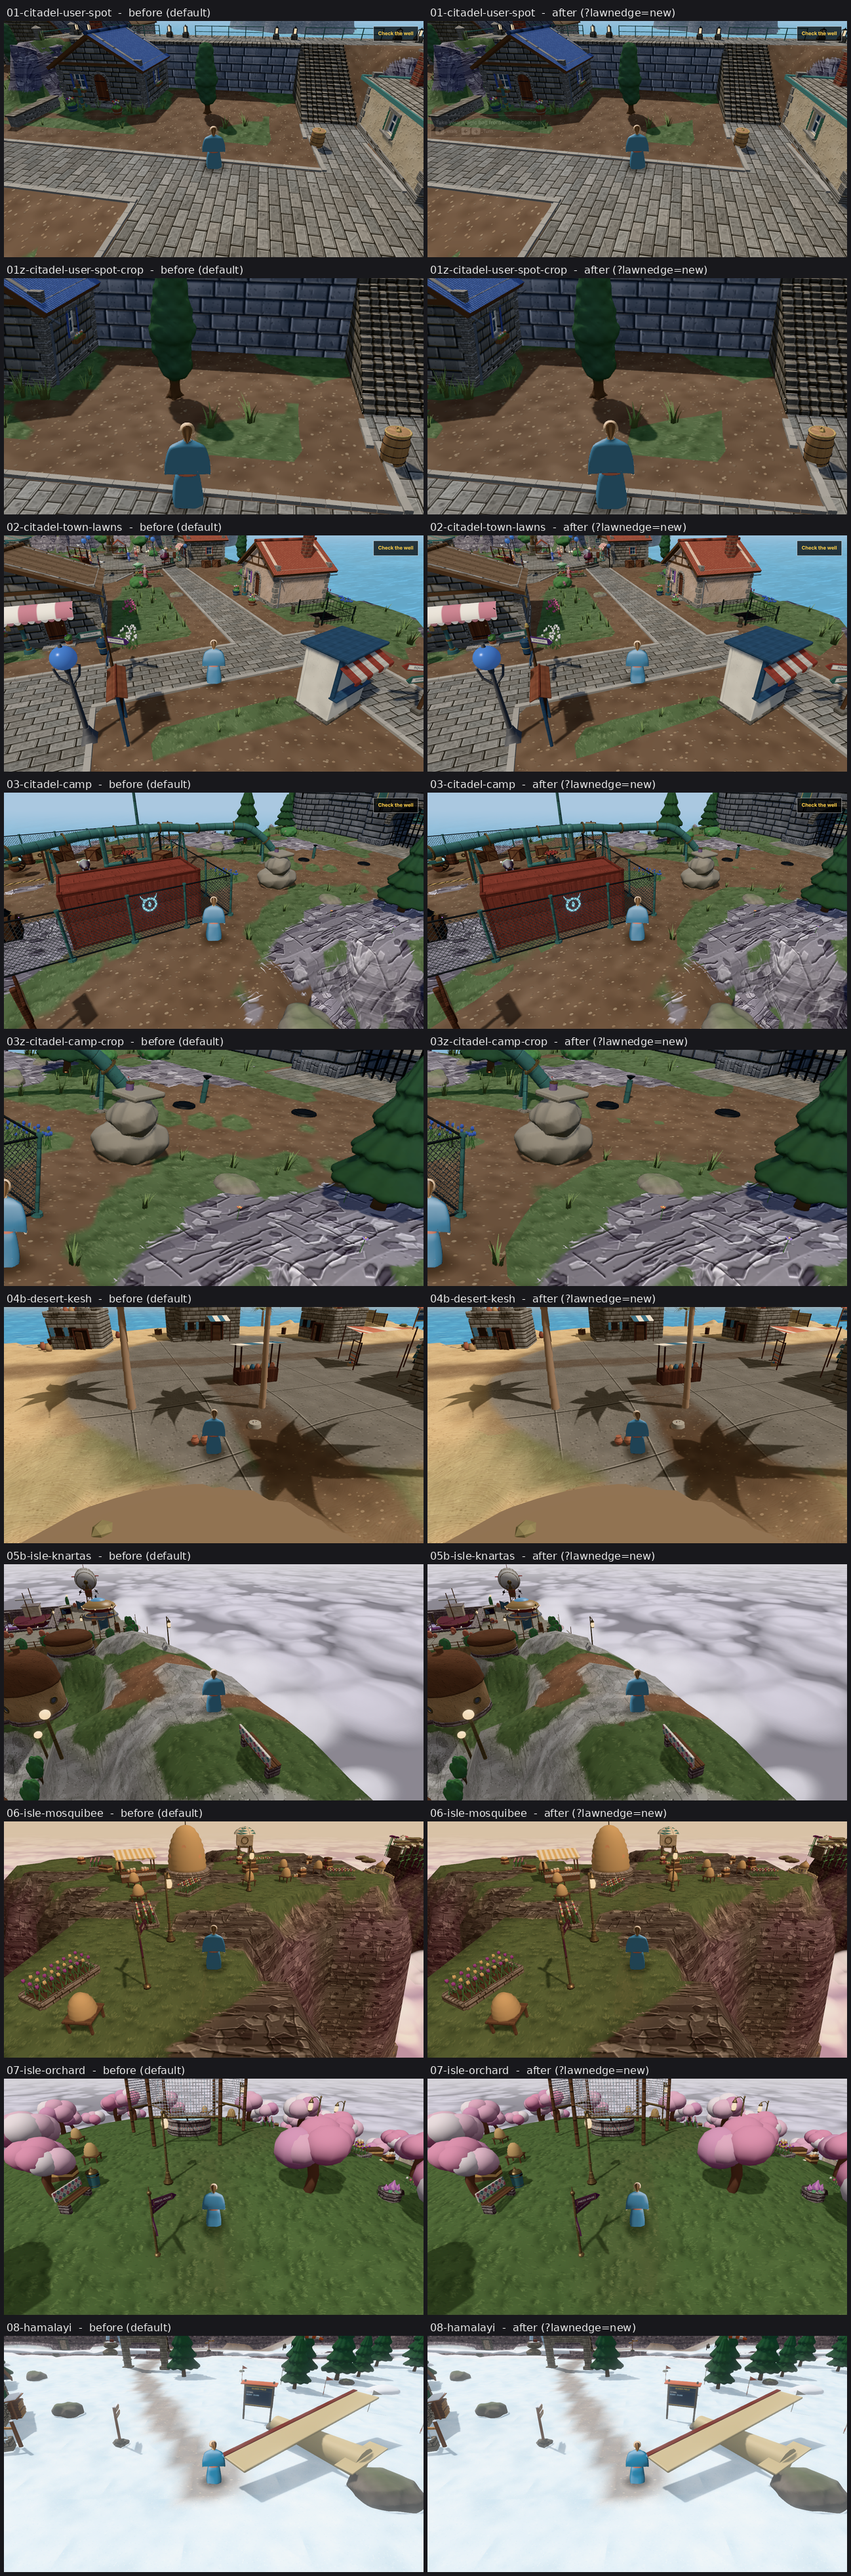
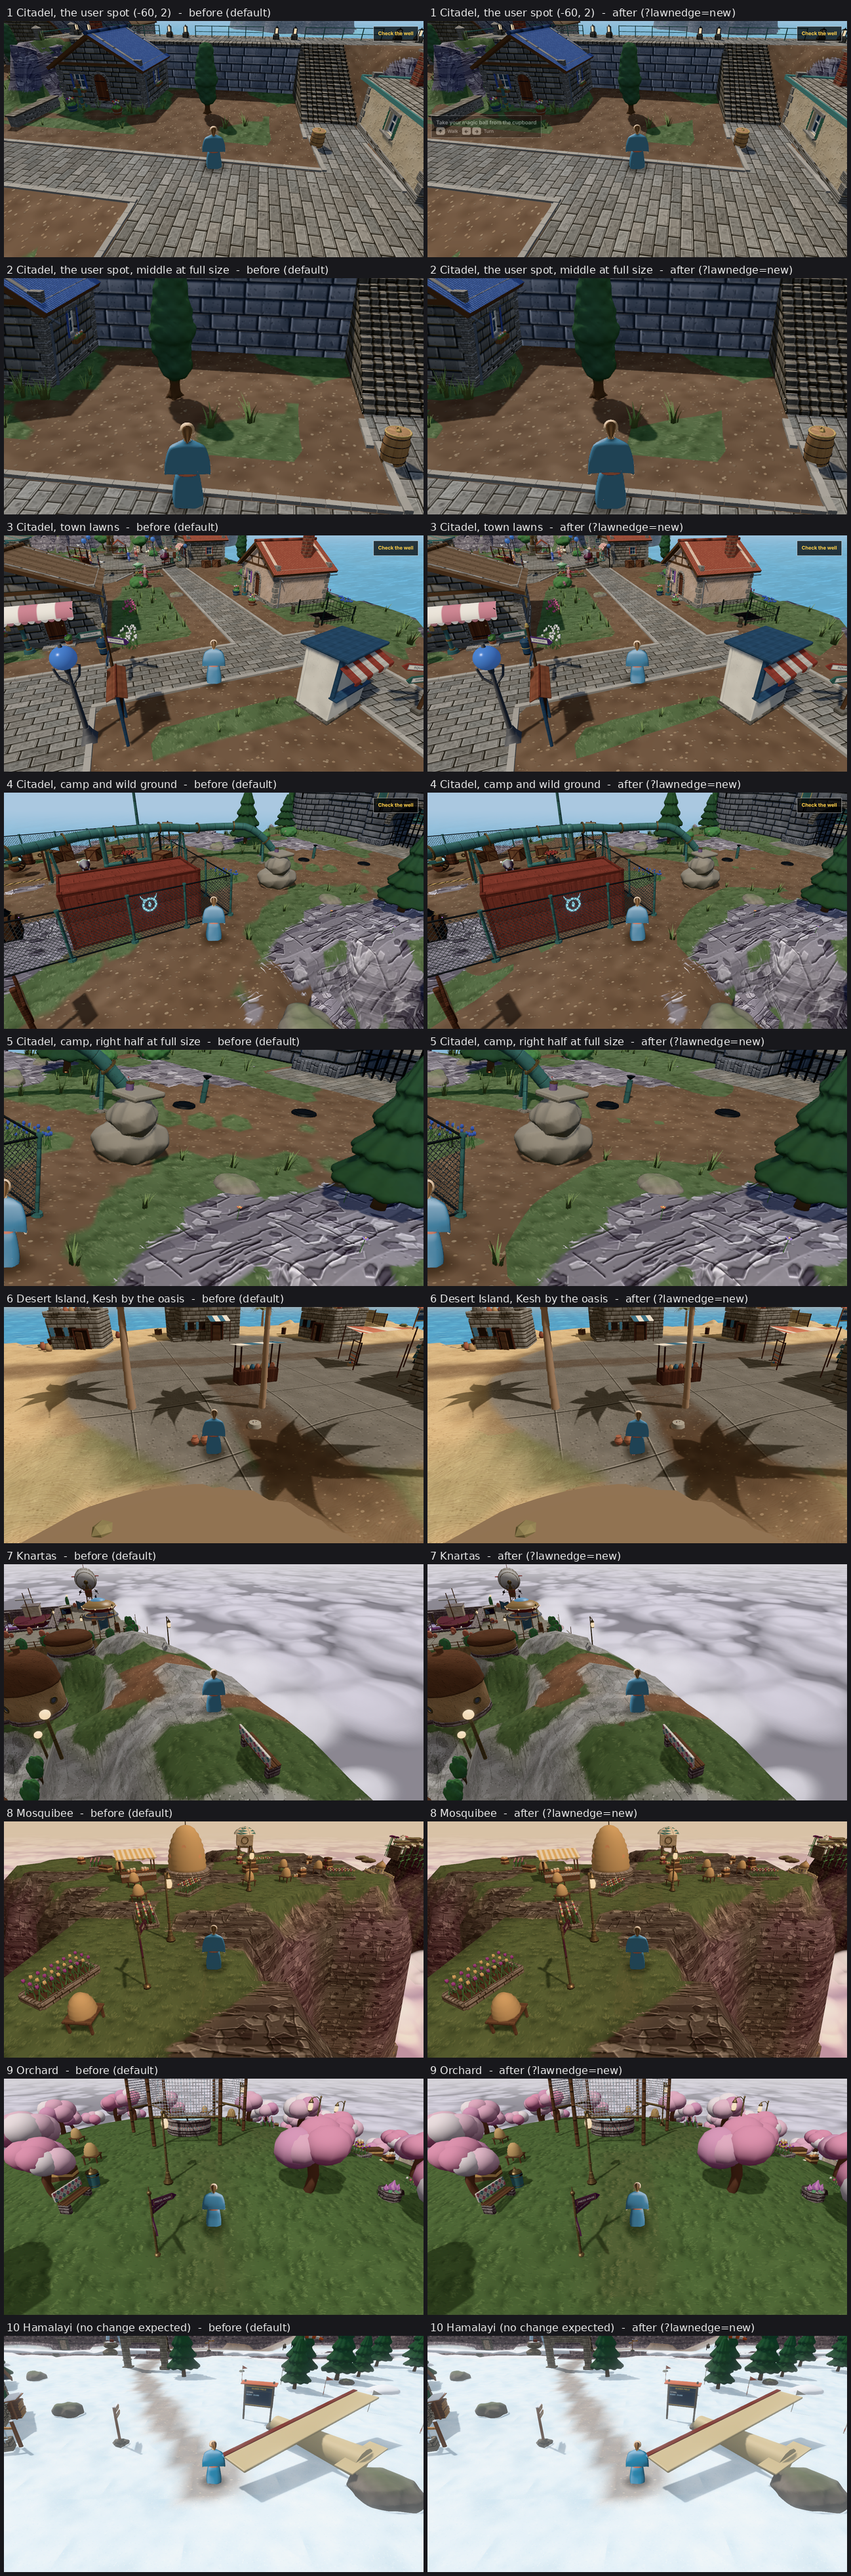
LAWN-EDGES-2: the soil's strength from the 3x3 (crisp edges kept), reshot sheet, tests and gaps in the doc
Claude-Session: https://claude.ai/code/session_012GFEakZyL3XxjZKHRj5dFg

diff --git a/lba3/src/engine/terrain.js b/lba3/src/engine/terrain.js
@@ -421,10 +421,10 @@ export class Terrain {
         if (v * D[k] < 0) { v = D[k]; kept++; }   // (never across the point's own side: a strip one point wide stays)
       }
       out[k * 2] = q16(v);
-      // the soil's strength: its own share on the soil's side, the strongest soil neighbour's on the grass side, so it
-      // does not fall across the edge (the old split, now inside the cut: a faint trodden way stays faint)
+      // the soil's strength: the strongest soil share among the point and its neighbours, so it does not fall across
+      // the edge (the old split, now inside the cut: a faint trodden way stays faint, a strong soil is whole to the line)
       let st2 = ratio[k] === ratio[k] ? ratio[k] : 0;
-      if (!(st2 >= 0.5)) for (let b = -1; b <= 1; b++) for (let c = -1; c <= 1; c++) {
+      for (let b = -1; b <= 1; b++) for (let c = -1; c <= 1; c++) {
         const ii = i + c, jj = j + b; if (ii < 0 || jj < 0 || ii > this.segs || jj > this.segs) continue;
         const rr = ratio[jj * n + ii]; if (rr >= 0.5 && rr > st2) st2 = rr;
       }

diff --git a/lba3/docs/lba-maturity/LAWN-EDGES-2.md b/lba3/docs/lba-maturity/LAWN-EDGES-2.md
@@ -25,8 +25,9 @@ LAWN-EDGES' method (a per-vertex signed distance, cut per pixel at 0) applied to
   5. A point with no grass or soil (paving, sand, snow, rock: under 1 % of the two) takes the side of the nearest
      piece, or with none near, the side of its neighbours that have some. Without this, a green fringe would appear
      between a trodden way and the snow or sand beside it.
-  6. The soil's **strength** per point: its own share on the soil's side; on the grass side, its strongest soil
-     neighbour's. It does not fall across the edge.
+  6. The soil's **strength** per point: the strongest soil share (0.5 or more) among the point and its 8 neighbours,
+     else its own share. It does not fall across the edge. A first version took the point's own share on the soil
+     side; just past the line that share is ~0.5, and the camp's edges went soft again. Fixed and reshot.
 - **The `lawn` attribute**: int16 × 2, normalized: [distance over ±4 m, strength 0..1]. Every splat terrain has it when
   the switch is on, so there is still one program.
 - **The shader** (`LAWN_SPLIT`): `lk = (1 − smoothstep(−a, a, dist + wobble)) × smoothstep(0.42, 0.58, strength + wobble')`.
@@ -35,8 +36,8 @@ LAWN-EDGES' method (a per-vertex signed distance, cut per pixel at 0) applied to
   - The second factor is the old split, applied to the strength instead of the share. Strong soil (Citadel's town
     soil, its paths, the wild patches, the Hamalayi's trails: share ~1) is full soil up to the cut. Weak soil keeps
     its old faint, mottled look inside the cut: the isles' trodden routes (share ~0.5–0.55).
-  - Without the second factor (the first version), every route on the isles became a solid brown path: pictures
-    `07-isle-orchard` and `06-isle-mosquibee` changed 9 % and 2 % of their pixels. With it, 0.2 % and 0.1 %.
+  - Without the second factor (the first version), every route on the isles became a solid brown path: the Orchard
+    and Mosquibee pictures changed 9 % and 2 % of their pixels. With it, 0.2 % and 0.1 %.
   - Beside a LAWN-EDGES paving line, a point painted paving now lends its share to grass or soil by `lk` (before:
     always to soil, one source of PATHS-135's extra teeth).
 - **Switch off** (the default): no attribute, no CPU work, and the shader text is **identical** to before for all
@@ -50,12 +51,13 @@ Edge cells = grid cells whose corners lie on both sides of the 0.5 line (where t
 
 | Area | Grid | Edge cells | What changes (`?lawnedge=new`) |
 |---|---|---|---|
-| Citadel (town soil, LAWN-EDGES plots, paths, WA-12 wild patches, the camp) | 0.93 m | 2482 | the grass/soil edges are smooth lines and curves; the mottled, notched fringes and a few one-cell grass specks are gone (03z) |
-| Zeelich isles: Knartas | 1.71 m | 263 | the bare-patch and route edges are smooth (05b) |
-| Mosquibee, Orchard, Old Watch, Platform, Celebration | 1.71 m | 21, 49, 71, 5, 4 | the routes keep their old faint look inside a smooth edge (06, 07); no picture for Old Watch, Platform or Celebration (few edges, none at their arrival points) |
+| Citadel (town soil, LAWN-EDGES plots, paths, WA-12 wild patches, the camp) | 0.93 m | 2482 | the grass/soil edges are smooth lines and curves; the mottled, notched fringes and a few one-cell grass specks are gone (row 5) |
+| Zeelich isles: Knartas | 1.71 m | 263 | the bare-patch and route edges are smooth (row 7) |
+| Mosquibee, Orchard | 1.71 m | 21, 49 | the routes keep their old faint look inside a smooth edge (rows 8, 9) |
+| Old Watch, Platform, Celebration | 1.71 m | 71, 5, 4 | edge cells exist, but there was no visible grass/soil edge at the spots tried (my automatic edge search failed there, for a reason I did not find). Not pictured |
 | Otringal, Undergas, Lift Dock | 1.71 m | 0 | none: no grass/soil edge (Otringal's turf is granite) |
-| Desert Island | 1 m | 45 | where Kesh's earth meets the oasis grass: a small change (04b). The rest is sand against earth or paving, a soft blend with no saw-tooth. Unchanged. |
-| Hamalayi | 1 m | 0 | none: snow is the sand channel, the trails are earth; no grass. Picture 08: the terrain's pixels are identical (only the idling hero differs) |
+| Desert Island | 1 m | 45 | where Kesh's earth meets the oasis grass: a small change (row 6). The rest is sand against earth or paving, a soft blend with no saw-tooth. Unchanged. |
+| Hamalayi | 1 m | 0 | none: snow is the sand channel, the trails are earth; no grass. Row 10: the terrain's pixels are identical (only the idling hero differs) |
 | Zeelich (main island), Ballastra | — | — | none: no splat terrain. The grass, gravel tracks and paving are separate polygon meshes (`zeelich.js buildPaths`, `ballastra/gardens.js`) whose outlines are already smooth |
 
 
@@ -86,13 +88,24 @@ player's PC. **No frame-time claim.**
 ## Pictures
 `captures/lawn-edges-2/sheet.png`: before (default) | after (`?lawnedge=new`), the play camera (Follow, Far),
 1280 × 720 scaled to half. Same build, same spot, same frame; only the switch differs. Row 1 is the user's spot.
-- Rows: 01 the user's spot (Citadel (−60, 2), facing west-north-west: the street's foot, the bed with the cypress, the
-  bin at the flight, the sea wall); 01z its middle at full resolution; 02 Citadel's town lawns (by the spaceport sign);
-  03 Citadel's camp and wild patches; 03z its right half at full resolution; 04b Desert Island (Kesh's edge by the
-  oasis); 05b Knartas; 06 Mosquibee; 07 Orchard; 08 the Hamalayi (no change expected).
-- Pixels changed (difference > 8 of 255): 01 1.4 %, 02 1.6 %, 03 3.1 %, 04b 0.5 %, 05b 0.5 %, 06 0.1 %, 07 0.2 %,
-  08 0.1 % (08: the hero's idle pose only; the terrain is identical).
-- Hints differ between frames ("Take your magic ball…" fades in at its own time): not part of the change.
+- The rows:
+  1. The user's spot: Citadel (−60, 2), facing about west. The street's foot, the bed with the cypress, the bin at
+     the flight, the sea wall.
+  2. Its middle at full resolution.
+  3. Citadel's town lawns, by the spaceport sign.
+  4. Citadel's camp and wild patches.
+  5. Its right half at full resolution.
+  6. Desert Island: Kesh's edge by the oasis.
+  7. Knartas.
+  8. Mosquibee.
+  9. Orchard.
+  10. The Hamalayi (no change expected).
+- Pixels changed (difference > 8 of 255), rows 1, 3, 4, 6, 7, 8, 9, 10: 3.1 %, 1.7 %, 3.7 %, 0.4 %, 0.6 %, 0.1 %, 0.2 %,
+  0.1 %.
+  - Row 1 includes a tutorial hint ("Take your magic ball…") that fades in at its own time in one frame only.
+  - Row 10 is the hero's idle pose only; the terrain is identical.
+- Spots 04 (the oasis from the south) and 05 (Knartas, the other way) were also shot. They show little, so they are
+  not on the sheet.
 
 ## Checks
 - **Scatter, heights, splat: unchanged.** Every area was built (Citadel, the nine isles, Desert Island and the
@@ -111,7 +124,42 @@ player's PC. **No frame-time claim.**
   with no grass beside it keeps its old blend.
 
 ## Tests (automated runtime only, SwiftShader, SERVE=1, once each)
-TESTS
+Both suites ran **with the switch on** (`QUERY=lawnedge=new`, which `tests/lib/boot.mjs` adds to every page it opens):
+- `tests/walkers.mjs`: **PASS**, 37/37.
+- `tests/worldfit.mjs`: functional 1/1, visual 7/8.
+  - The one FAIL is (3) z-fighting on **isle_knartas**: the huts' floors, stone against plaster at y 3.06, 12 judged
+    clusters.
+  - `PATHS-135.md` records the same failure on the base. I did not rerun it on the base here.
+  - The scan reads geometry, which this change does not touch. Handed to the coordinator.
+- Neither suite ran with the switch off. The default rests on these:
+  - the shader text is identical with the switch off;
+  - with the switch off there is no attribute and no work;
+  - the switch-off pictures and digests above.
+- Not run: `tests/path-ends.mjs`. It reads the paving, which is unchanged, and the old lawn split.
+- No test pictures were overwritten (`git status` clean after both).
 
 ## Unresolved / for the user
-GAPS
+Visible changes with the switch on, for the user's pick:
+- Grass/soil edges are smooth lines and curves across Citadel, Knartas and the isles' routes, and at Kesh's edge.
+- Grass specks one cell across, where the soil's share dipped under 0.5 at a single point, are gone (row 5, by the
+  cairn).
+- Ground whose soil share is just under 0.5 used to show a little mottled earth (the old split's wobble reached it).
+  It is grass now: the cut is at 0.5.
+- **The scatter is not changed**, as asked. Its filters read the splat functions, not the shader. A tuft near an edge
+  may therefore now stand a few cm over the new line where it used to stand on a tooth. I saw none in the pictures,
+  and did not check this systematically.
+
+Not fixed (other channels, the same cause):
+- The **rock/grass** split (the bare-rock patches on Citadel's wild ground and the isles) and the **paving** split
+  outside Citadel's LAWN-EDGES streets (the isles' squares and patches) still follow the triangles. Both are visible
+  in row 5: the rock patch's ragged rim. Each would need its own distance channel, built the same way.
+- The isles' **vertex tint** (`zislands.js` colorFn: the path and earth colours lerped per vertex) still follows the
+  grid, softly, under the new edge. `zislands.js` is being changed by another worker; left alone.
+- The holomap (`mapdraw.js`) and the path scan (`tests/lib/pathends.js`) still read the old split.
+- Citadel's build time grows by 150–200 ms (SwiftShader timing). A 3 × 3 fine sample would trim it.
+
+Questions:
+1. Make `?lawnedge=new` the default? Then the switch and the old split can go.
+2. Extend the same channel to the rock/grass edge (the ragged rock patches)?
+
+Nobody played it; nothing was checked on a real GPU.
